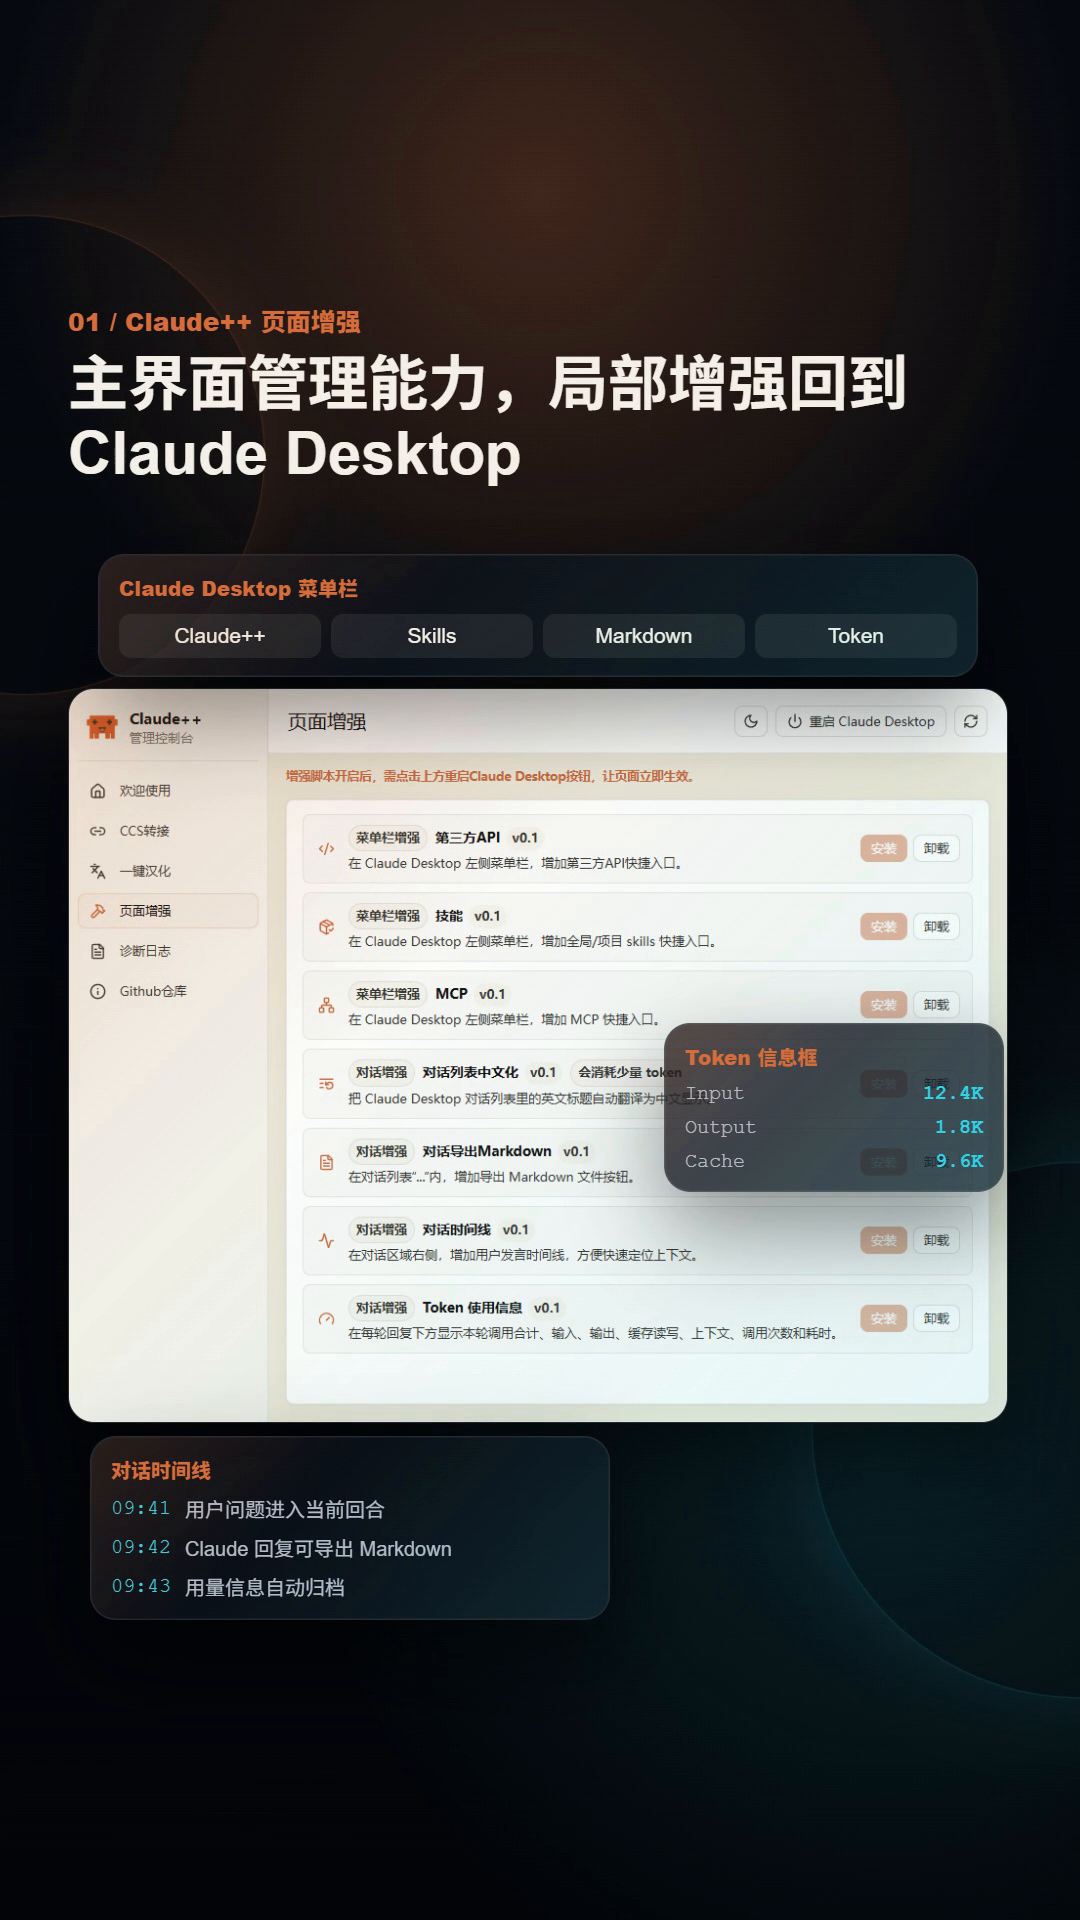
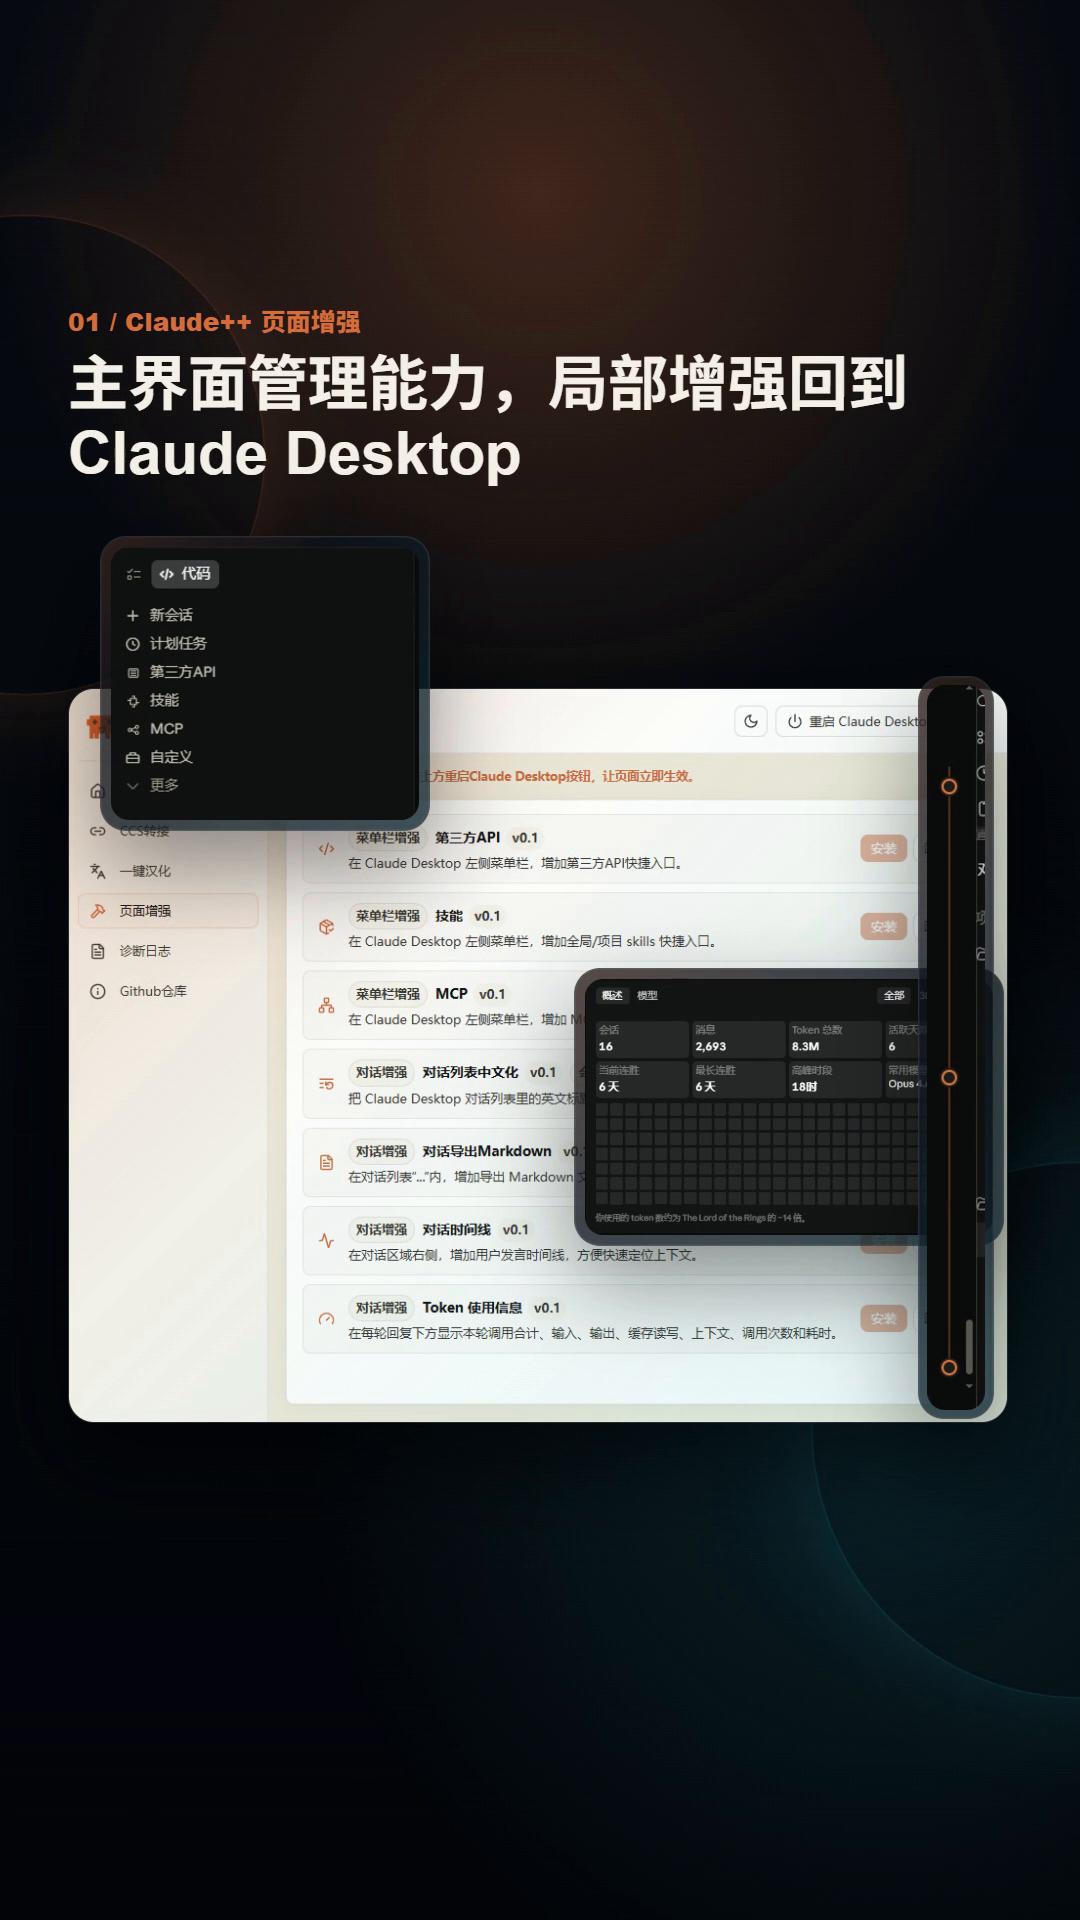
docs: use real claude desktop promo captures

Changed region(s): [[0.0611, 0.2812, 0.9472, 0.75], [0.0611, 0.75, 0.3972, 0.8438]]

diff --git a/docs/videos/claude-plus-plus-promo/index.html b/docs/videos/claude-plus-plus-promo/index.html
@@ -233,76 +233,36 @@
       .effect-card {
         position: absolute;
         z-index: 5;
-        padding: 18px 20px;
+        padding: 10px;
         color: #f7f3ea;
       }
 
-      .effect-label {
-        color: #d86f3d;
-        font-size: 20px;
-        font-weight: 800;
+      .effect-shot {
+        position: relative;
+        z-index: 1;
+        display: block;
+        width: 100%;
+        height: auto;
+        border-radius: 18px;
       }
 
       .menu-strip {
-        left: 30px;
-        top: 36px;
-        width: 880px;
-      }
-
-      .menu-items {
-        margin-top: 12px;
-        display: grid;
-        grid-template-columns: repeat(4, 1fr);
-        gap: 10px;
-      }
-
-      .menu-items span {
-        border-radius: 12px;
-        background: rgba(247, 243, 234, 0.08);
-        padding: 10px 8px;
-        font-size: 21px;
-        text-align: center;
+        left: 32px;
+        top: 18px;
+        width: 330px;
       }
 
       .token-box {
         right: 8px;
-        top: 505px;
-        width: 340px;
-      }
-
-      .token-row {
-        display: flex;
-        justify-content: space-between;
-        margin-top: 11px;
-        color: #b8c0cc;
-        font-family: monospace;
-        font-size: 20px;
-      }
-
-      .token-row strong {
-        color: #33d5e8;
-        font-weight: 800;
+        top: 450px;
+        width: 430px;
       }
 
       .timeline-card {
-        left: 22px;
-        bottom: 18px;
-        width: 520px;
-      }
-
-      .timeline-row {
-        display: grid;
-        grid-template-columns: 64px 1fr;
-        gap: 10px;
-        align-items: center;
-        margin-top: 10px;
-        color: #b8c0cc;
-        font-size: 20px;
-      }
-
-      .timeline-row span:first-child {
-        color: #33d5e8;
-        font-family: monospace;
+        right: 18px;
+        top: 158px;
+        width: 76px;
+        padding: 8px;
       }
 
       .matrix {
@@ -367,9 +327,6 @@
         background: linear-gradient(180deg, rgba(216, 111, 61, 0.96), rgba(51, 213, 232, 0.86));
       }
 
-      audio {
-        display: none;
-      }
     </style>
   </head>
   <body>
@@ -406,25 +363,13 @@
             <img class="screen" src="assets/screen-enhance.png" alt="Claude++ 页面增强" />
           </div>
           <div class="effect-card menu-strip">
-            <div class="effect-label">Claude Desktop 菜单栏</div>
-            <div class="menu-items">
-              <span>Claude++</span>
-              <span>Skills</span>
-              <span>Markdown</span>
-              <span>Token</span>
-            </div>
+            <img class="effect-shot" src="assets/claude-desktop-menu.png" alt="真实 Claude Desktop 菜单栏" />
           </div>
           <div class="effect-card token-box">
-            <div class="effect-label">Token 信息框</div>
-            <div class="token-row"><span>Input</span><strong>12.4K</strong></div>
-            <div class="token-row"><span>Output</span><strong>1.8K</strong></div>
-            <div class="token-row"><span>Cache</span><strong>9.6K</strong></div>
+            <img class="effect-shot" src="assets/claude-desktop-token.png" alt="真实 Claude Desktop Token 统计" />
           </div>
           <div class="effect-card timeline-card">
-            <div class="effect-label">对话时间线</div>
-            <div class="timeline-row"><span>09:41</span><p>用户问题进入当前回合</p></div>
-            <div class="timeline-row"><span>09:42</span><p>Claude 回复可导出 Markdown</p></div>
-            <div class="timeline-row"><span>09:43</span><p>用量信息自动归档</p></div>
+            <img class="effect-shot" src="assets/claude-desktop-timeline.png" alt="真实 Claude Desktop 时间线定位条" />
           </div>
         </div>
       </section>
@@ -479,14 +424,6 @@
 
       <div id="wipe" class="transition"></div>
 
-      <audio
-        id="bgm"
-        data-start="0"
-        data-duration="30"
-        data-track-index="5"
-        src="assets/bgm.wav"
-        data-volume="1"
-      ></audio>
     </div>
 
     <script>

diff --git a/.workbench/governance/2026-06-04-claude-plus-plus-promo-video.md b/.workbench/governance/2026-06-04-claude-plus-plus-promo-video.md
@@ -14,9 +14,9 @@
 
 - `npm run check`：0 error，0 layout issues；仅存在重复使用同一 logo 的媒体发现警告，不影响渲染。
 - `npm run render -- --output claude-plus-plus-promo.mp4 --quality standard --fps 30 --workers 2`：成功生成 MP4。
-- `ffprobe`：新版视频 1080x1920、30.000000 秒；音频 30.016000 秒。
-- `volumedetect`：新版音频 mean_volume 约 -16.5 dB，max_volume 约 -5.9 dB。
-- 抽取 2 秒、8 秒、28.5 秒帧和 6 段 contact sheet，首屏、Claude++ 主画面、Claude Desktop 局部浮层和结尾画面均正常显示。
+- `ffprobe`：新版视频 1080x1920、30.000000 秒；无音频流。
+- Claude Desktop 局部素材来自运行中的 Claude Desktop 真实窗口截图，仅保留裁切后的菜单栏、Token 统计、右侧时间线定位条素材。
+- 抽取 2 秒、8 秒、28.5 秒帧和 6 段 contact sheet，首屏、Claude++ 主画面、真实 Claude Desktop 局部浮层和结尾画面均正常显示。
 
 ## 回退
 

diff --git a/docs/videos/claude-plus-plus-promo/DESIGN.md b/docs/videos/claude-plus-plus-promo/DESIGN.md
@@ -1,7 +1,7 @@
 # Claude++ Promo Visual Identity
 
 ## Style Prompt
-Dark technical product launch video with a restrained Claude-orange accent. The look should feel like a focused desktop developer tool: graphite canvas, soft amber glows, thin cyan telemetry lines, crisp Chinese typography, and realistic UI screenshots floating as polished product surfaces. Claude++ app screens are the main visual focus; Claude Desktop appears only as small local enhancement callouts such as menu, token, and timeline widgets. Motion should be rhythmic but readable, with clean wipes, card reveals, and subtle parallax.
+Dark technical product launch video with a restrained Claude-orange accent. The look should feel like a focused desktop developer tool: graphite canvas, soft amber glows, thin cyan telemetry lines, crisp Chinese typography, and realistic UI screenshots floating as polished product surfaces. Claude++ app screens are the main visual focus; Claude Desktop appears only as real captured local enhancement callouts such as menu, token, and timeline widgets. Motion should be rhythmic but readable, with clean wipes, card reveals, and subtle parallax.
 
 ## Colors
 - Canvas: `#070a0f`
@@ -23,3 +23,5 @@ Dark technical product launch video with a restrained Claude-orange accent. The 
 - Do not crop screenshots so tightly that the product context is lost.
 - Do not show full Claude Desktop pages as the main scene.
 - Do not use a vertical scanning glow line.
+- Do not synthesize or hand-draw Claude Desktop UI. Use real captured screenshots only.
+- Do not include background music unless explicitly re-approved.